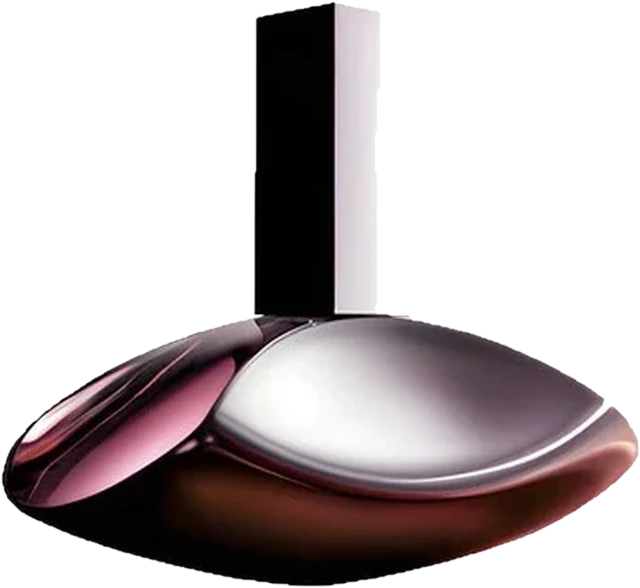
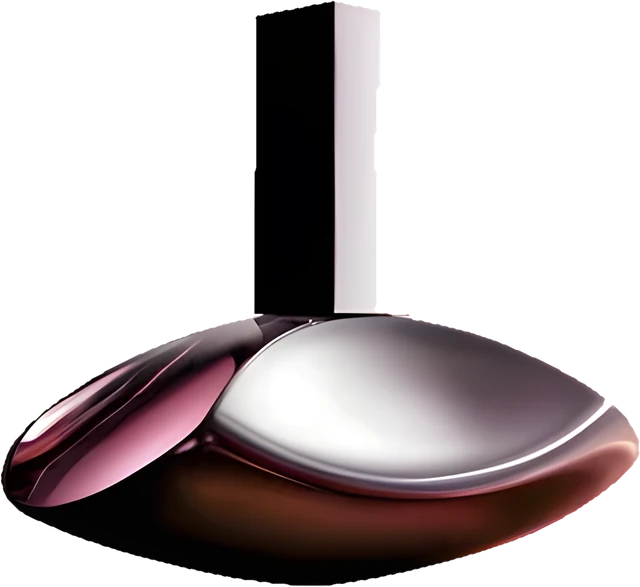
Ficha: 'Si te gusta, tambien' ya no se colapsa (PC y celular), barra superior con fondo; 27 fotos pequenas mejoradas con super-resolucion
Claude-Session: https://claude.ai/code/session_015iFcYwijyDYCUynNUAShfU

diff --git a/web/index.html b/web/index.html
@@ -97,6 +97,11 @@ div:has(> [data-screen-label="App"]) { padding:0 !important; align-items:stretch
   .lc-bub > span { font-size:9.5px !important; }
 }
 
+/* 'Si te gusta, también…' row must keep its own height (it collapsed to 0 inside the page grid) */
+.dk-ftop { background:linear-gradient(var(--lc-bg) 55%, color-mix(in srgb, var(--lc-bg) 0%, transparent)); }
+.dk-sim { min-height:max-content; flex-shrink:0; align-items:flex-start; }
+.dk-sim > button { flex-shrink:0 !important; min-height:190px; }
+
 .dk-brand{display:none}
 /* Desktop (PC / laptops): sidebar menu + wide layout */
 @media (min-width: 1024px) {
@@ -121,7 +126,8 @@ div:has(> [data-screen-label="App"]) { padding:0 !important; align-items:stretch
   .dk-visit .plate img { max-height:70vh; object-fit:contain; }
   /* perfume page: photo left (fixed), info right */
   .dk-ficha { display:grid; grid-template-columns:minmax(0,1fr) minmax(0,1fr); column-gap:48px; align-content:start; padding:0 max(32px, calc((100% - 1240px) / 2)) 48px !important; }
-  .dk-ftop { grid-column:1 / -1; padding:20px 0 !important; }
+  .dk-ftop { grid-column:1 / -1; padding:20px 0 !important; background:linear-gradient(var(--lc-bg) 65%, transparent); }
+  .dk-ficha { scroll-behavior:auto; overscroll-behavior:contain; padding-bottom:80px !important; }
   .dk-hero { grid-column:1; grid-row:2 / span 2; position:sticky !important; top:20px; height:min(680px, calc(100vh - 120px)) !important; margin-top:0 !important; }
   .dk-info { grid-column:2; padding:8px 0 0 !important; }
   .dk-sim { grid-column:2; padding:14px 0 10px !important; }

diff --git a/web/sw.js b/web/sw.js
@@ -1,5 +1,5 @@
 // Offline cache: pages fresh from the network when online, images/scripts served from cache.
-const V = 'lcp-v5';
+const V = 'lcp-v6';
 self.addEventListener('install', e => self.skipWaiting());
 self.addEventListener('activate', e => e.waitUntil(caches.keys().then(ks => Promise.all(ks.filter(k => k !== V).map(k => caches.delete(k)))).then(() => self.clients.claim())));
 self.addEventListener('fetch', e => {
